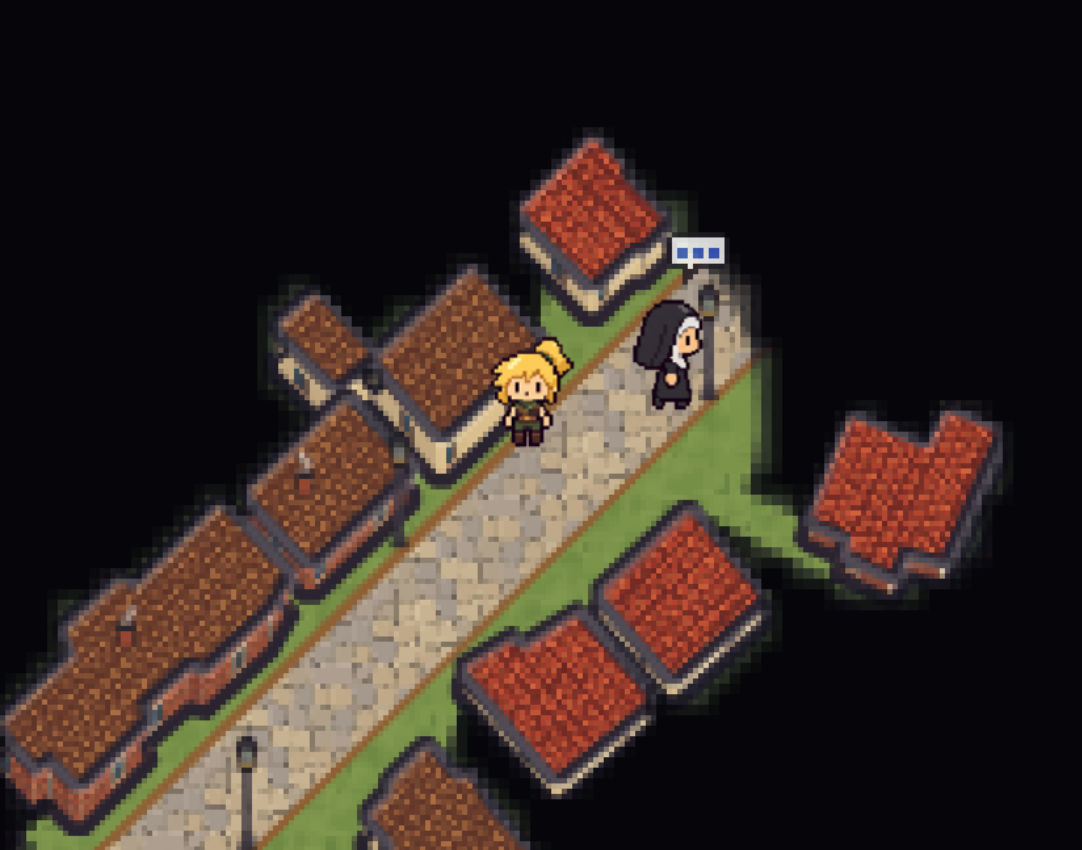
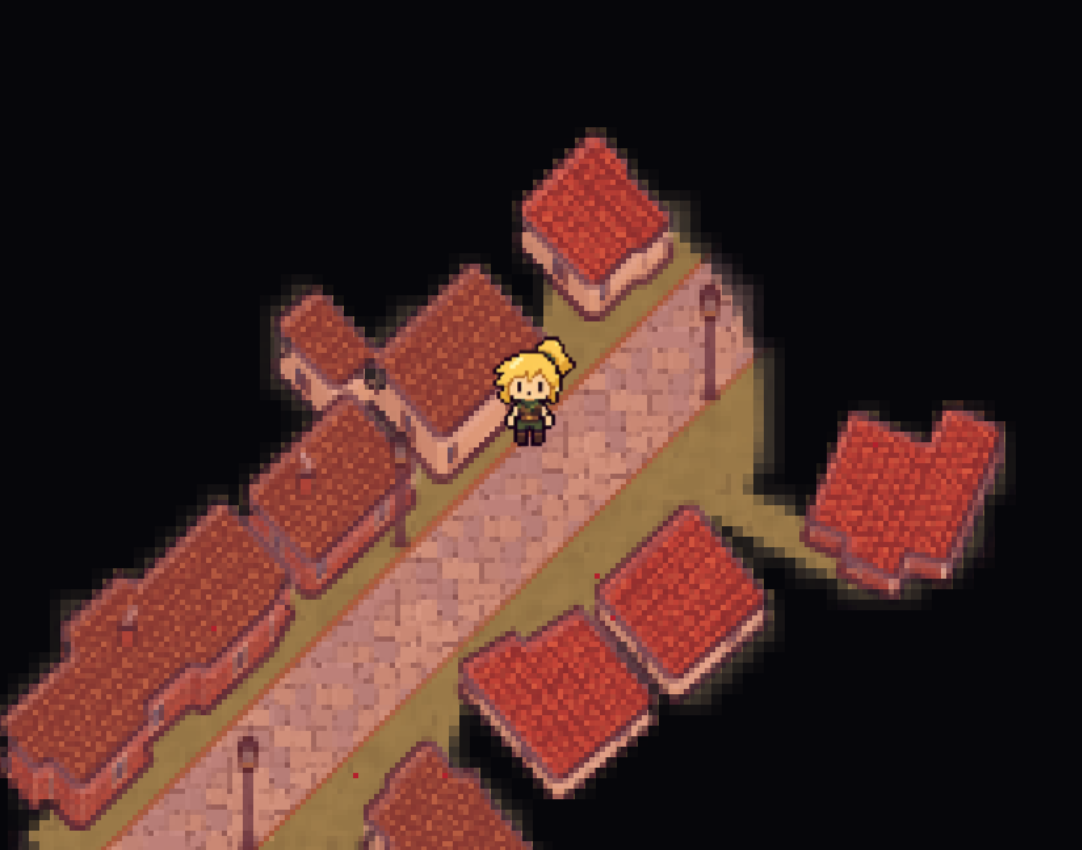
Thinner map outlines (buildings, roofs, walls, roads, paved streets, water, forests, pitches) to match the characters' light outline
Claude-Session: https://claude.ai/code/session_01TYXz2638NXWLT7qwgW6KkP

diff --git a/src/map/MapRenderer.ts b/src/map/MapRenderer.ts
@@ -442,7 +442,7 @@ export class MapRenderer {
       if (l.kind !== 'river' && l.kind !== 'stream' && l.kind !== 'ditch') continue;
       linePath(ctx, l.pts);
       ctx.strokeStyle = '#2f6fb3';
-      ctx.lineWidth = l.width + 2;
+      ctx.lineWidth = l.width + 1;
       ctx.stroke();
       ctx.strokeStyle = P.water;
       ctx.lineWidth = l.width;
@@ -455,7 +455,7 @@ export class MapRenderer {
     for (const l of roads) {
       linePath(ctx, l.pts);
       ctx.strokeStyle = TRACK_EDGE;
-      ctx.lineWidth = trackWidth(l) + (l.bridge ? 7 : 3);
+      ctx.lineWidth = trackWidth(l) + (l.bridge ? 5 : 1.5);
       ctx.stroke();
     }
     for (const l of roads) {
@@ -470,7 +470,7 @@ export class MapRenderer {
       if (a.kind !== 'paved') continue;
       ringsPath(ctx, a.rings);
       ctx.strokeStyle = TRACK_EDGE;
-      ctx.lineWidth = 3;
+      ctx.lineWidth = 1.5;
       ctx.stroke();
     }
     for (const a of areas) {
@@ -613,11 +613,11 @@ export class MapRenderer {
     ctx.fill('evenodd');
     if (a.kind === 'water') {
       ctx.strokeStyle = '#2f6fb3';
-      ctx.lineWidth = 2;
+      ctx.lineWidth = 1;
       ctx.stroke();
     } else if (a.kind === 'forest' || a.kind === 'pitch' || a.kind === 'parking') {
       ctx.strokeStyle = a.kind === 'pitch' ? '#ffffff' : a.kind === 'parking' ? '#9c6f42' : '#24602a';
-      ctx.lineWidth = 2;
+      ctx.lineWidth = 1;
       ctx.stroke();
     }
   }
@@ -645,7 +645,7 @@ export class MapRenderer {
     // Walls: the footprint dropped by h, plus the outline.
     ringsPath(ctx, b.rings, 0, h);
     ctx.fillStyle = OUTLINE;
-    ctx.lineWidth = 4;
+    ctx.lineWidth = 2;
     ctx.strokeStyle = OUTLINE;
     ctx.stroke();
     for (let s = h; s > 0; s -= 2) {
@@ -663,7 +663,7 @@ export class MapRenderer {
     if (art && !special) art.setTransform(roofTransform(b));
     ctx.fillStyle = special ? special.roof : art ?? ROOFS[b.seed % ROOFS.length];
     ctx.fill('evenodd');
-    ctx.lineWidth = 2.5;
+    ctx.lineWidth = 1.2;
     ctx.strokeStyle = OUTLINE;
     ctx.stroke();
     // A lighter inner edge gives the roof some volume.
@@ -707,7 +707,7 @@ export class MapRenderer {
     }
     // Keep the outline crisp over the texture.
     ringsPath(ctx, b.rings, 0, h);
-    ctx.lineWidth = 1.5;
+    ctx.lineWidth = 1;
     ctx.strokeStyle = OUTLINE;
     ctx.stroke();
   }
